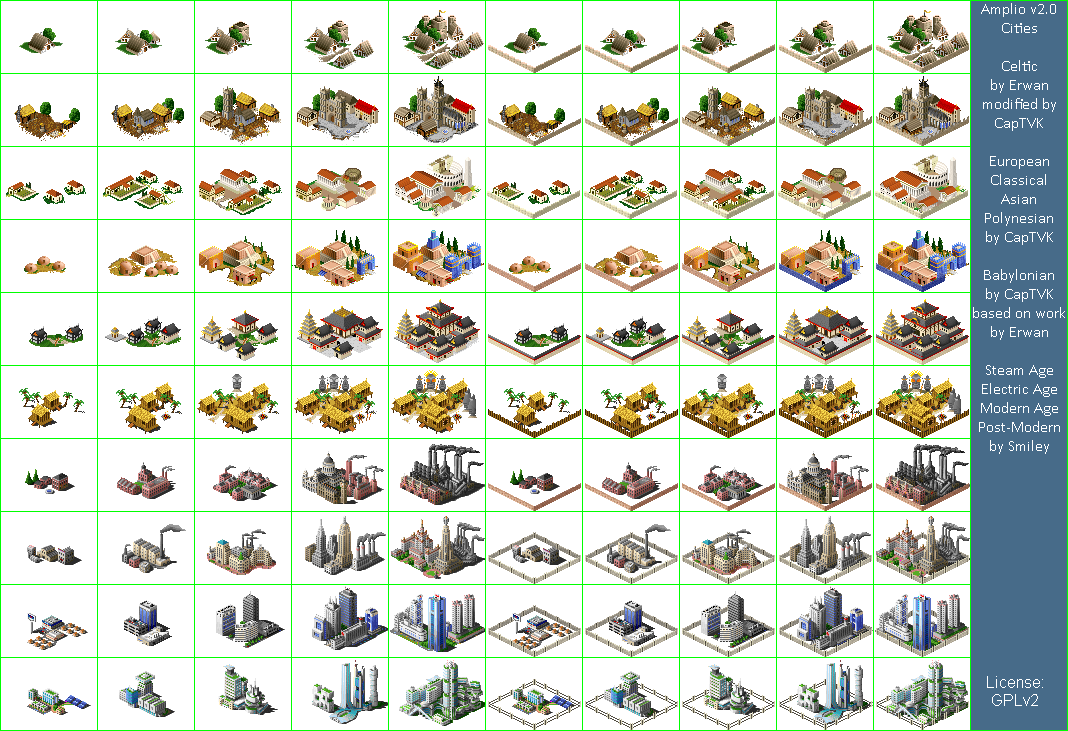
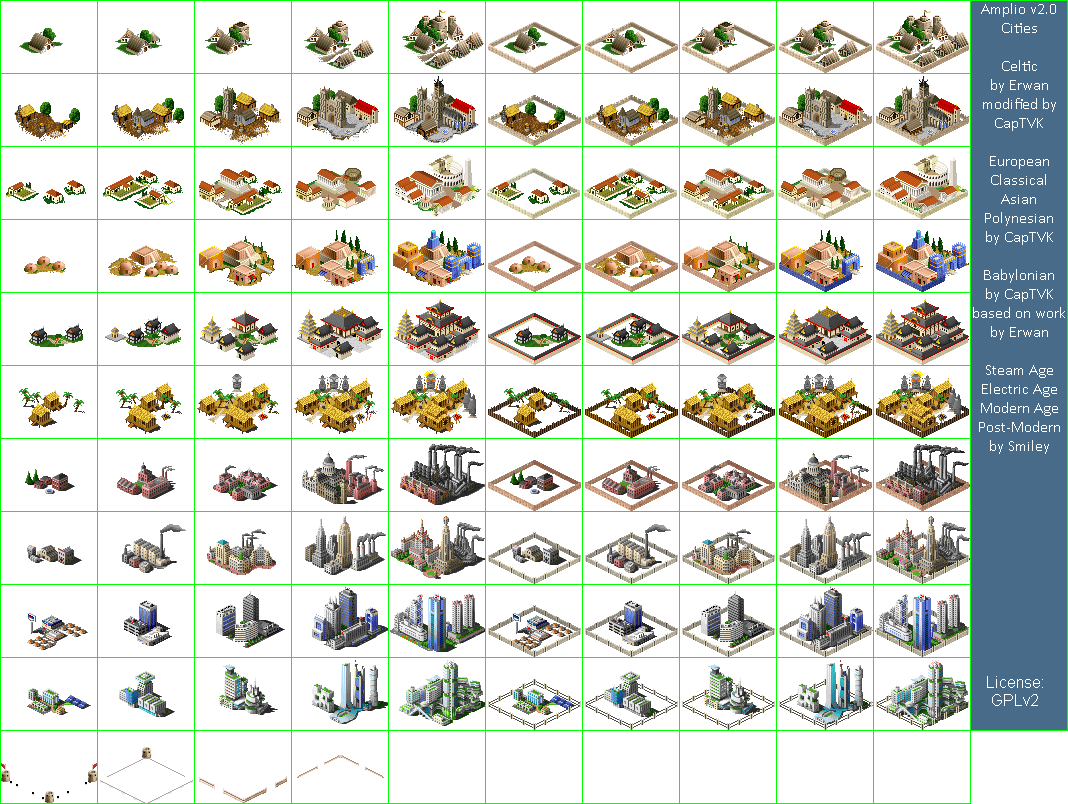
Use the city layer visibility effect to also show....
1.  Coastal Defence
2. New Fortifications improvement type.
3. FIX: some styles have rear city walls, other's dont.
4. Shadow contrast was too extreme on city walls. Soften.

diff --git a/freeciv-web/src/main/webapp/javascript/2dcanvas/tilespec.js b/freeciv-web/src/main/webapp/javascript/2dcanvas/tilespec.js
@@ -333,7 +333,19 @@ function fill_sprite_array(layer, ptile, pedge, pcorner, punit, pcity, citymode)
       // Due to visibility difficulty, city tiles ALWAYS show highlighted pollution
       if (pcity != null) {
         if (polluted) sprite_array.push({"key" : "grid.pollute_ring"}); //ring under city "wraps" around it
+        
+        var layer_sprite = get_city_fortifications_underlay_sprite(pcity);   // underlays (coastal defence, fortifications)
+        if (layer_sprite) sprite_array.push(layer_sprite);
+        layer_sprite = get_city_coastal_underlay_sprite(pcity);
+        if (layer_sprite) sprite_array.push(layer_sprite);
+
         sprite_array.push(get_city_sprite(pcity));                      //city
+        
+        layer_sprite = get_city_fortifications_overlay_sprite(pcity);  // overlays (coastal defence, fortifications)
+        if (layer_sprite) sprite_array.push(layer_sprite);
+        layer_sprite = get_city_coastal_overlay_sprite(pcity);
+        if (layer_sprite) sprite_array.push(layer_sprite);
+        
         if (polluted) sprite_array.push({"key" : "grid.pollute_icon"}); //pollution icon clearly over top
 	      if (pcity['unhappy']) {
           sprite_array.push({"key" : "city.disorder"});
@@ -1450,7 +1462,38 @@ function get_unit_activity_sprite(punit)
 
   return null;
 }
+function get_city_coastal_overlay_sprite(pcity) {
+  // LAYER THREE: Overlays
+  if (pcity['walls'] & 2) {
+    return {"key": "city.coastal_overlay", "offset_x" : -4, "offset_y" : -24};
+  }
+  return null; // no overlay.
+}
+function get_city_coastal_underlay_sprite(pcity) {
+  // LAYER ONE: Underlays
+  if (pcity['walls'] & 2) {
+    return {"key": "city.coastal_underlay", "offset_x" : -4, "offset_y" : -24};
+  }
+  return null; // no underlay.
+}
+function get_city_fortifications_overlay_sprite(pcity) {
+  // LAYER THREE: Overlays
+  if ((pcity['walls'] & 4) && !(pcity['walls'] & 1)) {
+    // !(&1) means, don't show if there are also City Walls
+    return {"key": "city.fortifications_overlay", "offset_x" : -4, "offset_y" : -24};
+  }
+  return null; // no overlay.
+}
+function get_city_fortifications_underlay_sprite(pcity) {
+  // LAYER ONE: Underlays
+      // !(&1) means, don't show if there are also City Walls
+  if ((pcity['walls'] & 4) && !(pcity['walls'] & 1)) {
+    return {"key": "city.fortifications_underlay", "offset_x" : -4, "offset_y" : -24};
+  }
+  return null; // no underlay.
+}
 
+ /*
 /****************************************************************************
   Return the sprite in the city_sprite listing that corresponds to this
   city - based on city style and size.
@@ -1474,7 +1517,7 @@ function get_city_sprite(pcity)
     size = 4;
   }
 
-  var city_walls = pcity['walls'] ? "wall" : "city";
+  var city_walls = (pcity['walls'] & 1) ? "wall" : "city";
 
   var tag = city_rule['graphic'] + "_" + city_walls + "_" + size;
   if (sprites[tag] == null) {
